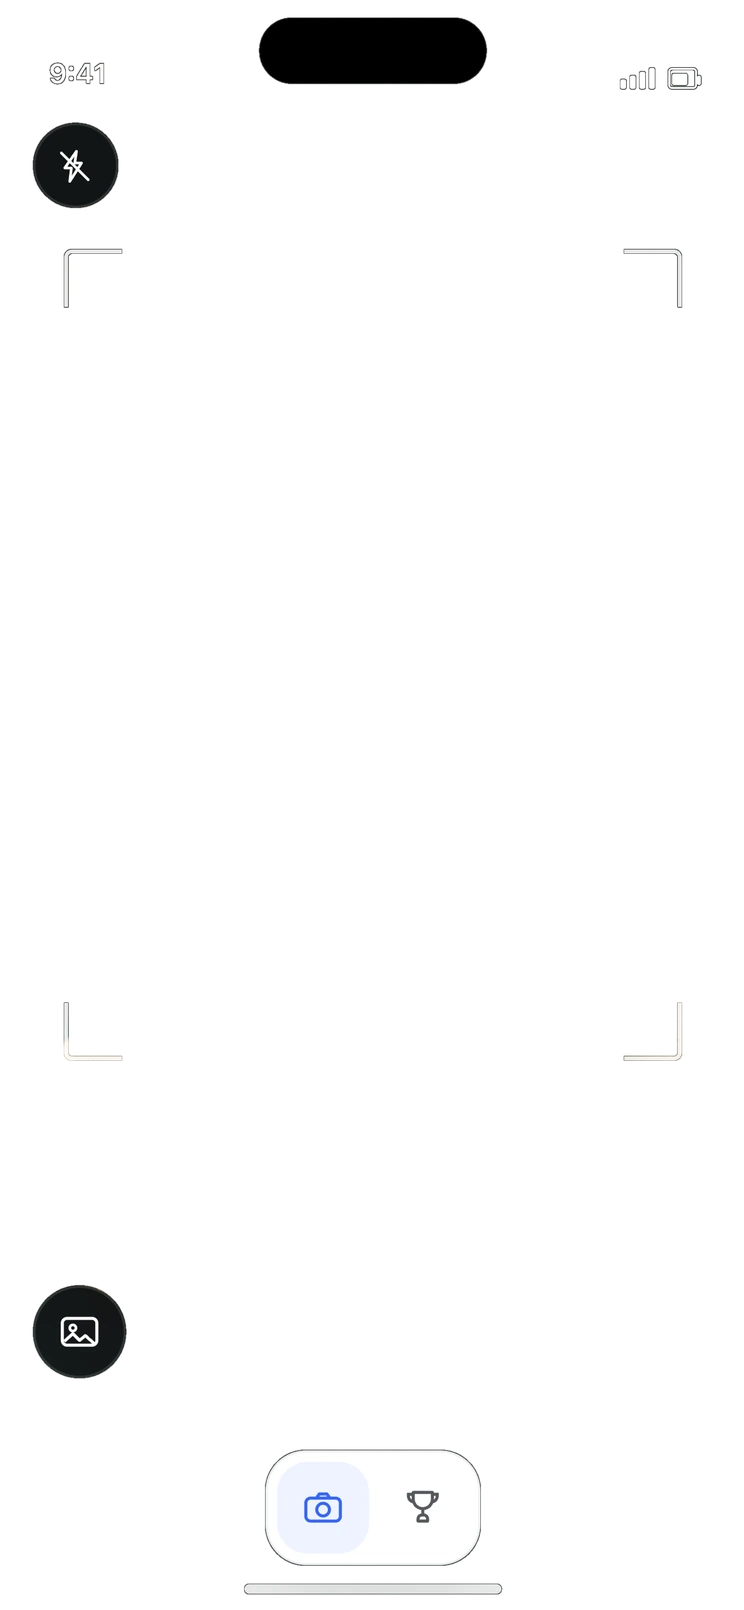
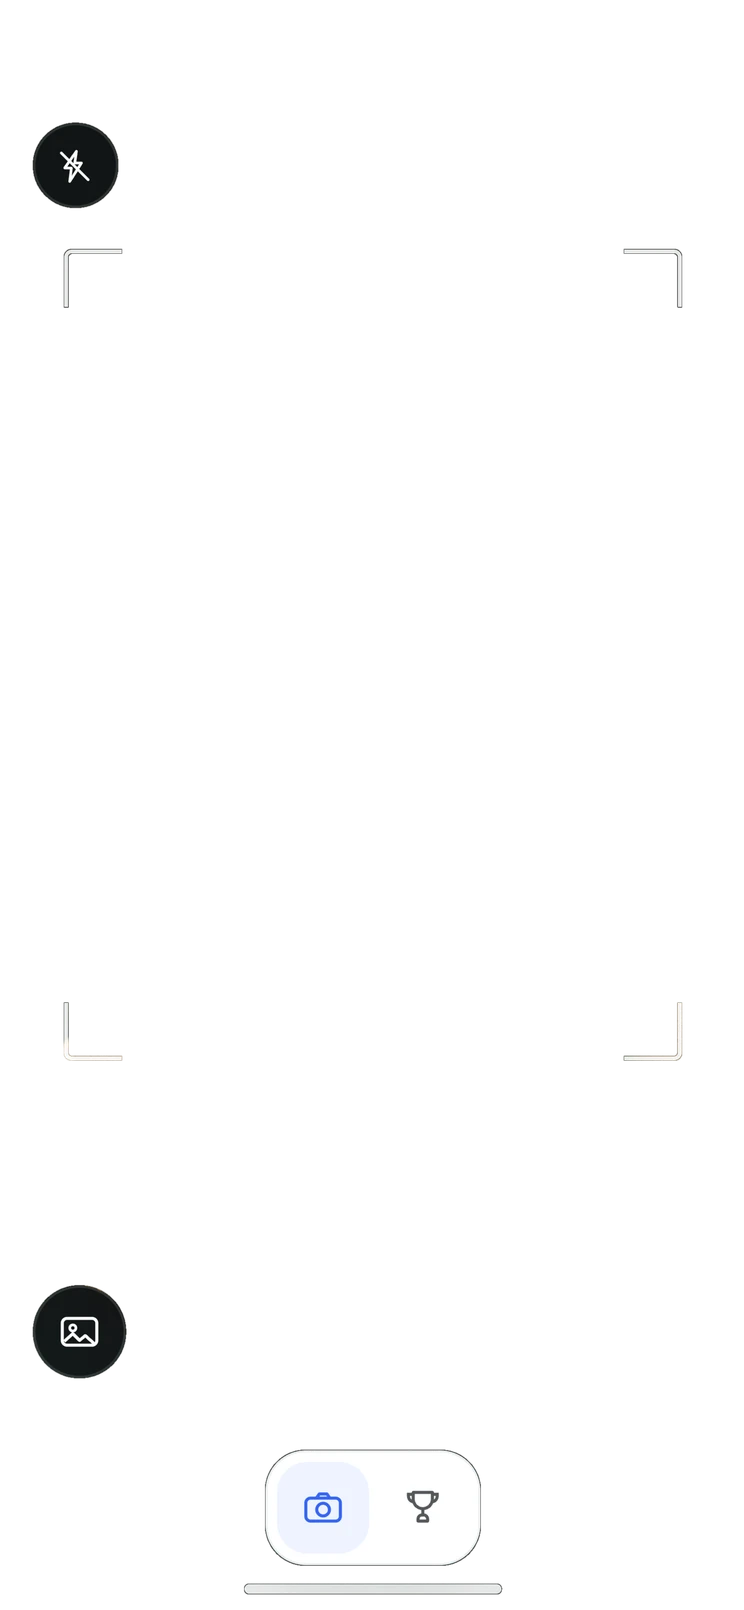
fix(marketing): strip the hero's island and grow the explorer phone (#905)
Two things Aziz caught on the live page.

The hero still carried the OS status bar and the Dynamic Island, burned into
its camera capture, while the five explorer screens had both stripped last
round. One phone with an island and five without. He asked for uniformity
either way and chose removing.

scripts/hero-chrome.mjs in snaplist-appstore owns that cut and is new, because
the knockout that produced this layer was a one-off that left no script on disk.
Rather than guess at a pipeline nobody wrote down, it clears everything above
row 176 of the captured PNG and asserts the layer's own alpha profile first: the
status band has to be non-empty and rows 150 to 202 have to be empty, so a
canvas change that moved the flash button up into that gap fails loudly instead
of clipping the button off the hero. That assertion already earned its keep by
catching 276 antialiased pixels a ten-row sampling had stepped over. Verified by
compositing the result over a hero subject rather than by reading the alpha.

The Trophy Wall screen read cramped, which it was: a two-column grid of tiles
inside a 314px screen, the worst of the five. The explorer phone grows from 340
to 392 across its steps. The hero at 400 is the ceiling because he had already
chosen for it to lead, so the desktop gain is deliberately small. Every step was
measured against the live page at each width that actually responds to it,
checking for overflow and for the card column being squeezed, which starts at
[…]

Changed region(s): [[0.3401, 0.0, 0.6492, 0.0621], [0.8347, 0.0311, 0.9274, 0.0621], [0.0618, 0.0311, 0.1546, 0.0621]]

diff --git a/src/app/(marketing)/marketing.css b/src/app/(marketing)/marketing.css
@@ -986,15 +986,28 @@ html:has(.mkt) {
   }
 }
 
-/* The frame is drawn at 288x592 and scaled uniformly, so `scale()` needs a
+/* The frame is drawn at 288x598 and scaled uniformly, so `scale()` needs a
    unitless factor. CSS cannot divide a length by a length, so the width and its
    factor are declared together in fixed steps rather than derived from a clamp().
    The steps are chosen to land on the design's computed width at each proof
    width (1440, 1024, 768, 430, 390, 375) and to stay inside the section's
-   content box at every one, so nothing can overflow horizontally. */
+   content box at every one, so nothing can overflow horizontally.
+
+   Grown once. Aziz read the Trophy Wall screen as cramped, and it was the
+   smallest case: a two-column grid of tiles inside a 314px screen. The ceiling
+   is the hero phone at 400, which leads the page and stays the larger of the
+   two, so the widest step is 392 rather than a proportional bump. Measured at
+   each responding width against the live page: 1440 goes to 392, 1279 to 376,
+   1058 to 370, 759 to 376. None overflow, and none squeeze the card column,
+   which held 540 until 384 and so sets the practical cap below 1280 too.
+
+   Below about 410 the frame is a flex item narrower than its declared width and
+   shrinks to the column, so these values stop being the governing number. The
+   last two steps are left alone for that reason rather than raised into no
+   effect. */
 .mkt-explorer {
-  --phone-w: 384px;
-  --phone-scale: 1.33333;
+  --phone-w: 392px;
+  --phone-scale: 1.36111;
   --phone-h: calc(var(--phone-w) * 598 / 288);
   display: flex;
   flex-direction: row;
@@ -1005,22 +1018,22 @@ html:has(.mkt) {
 
 @media (max-width: 1279px) {
   .mkt-explorer {
-    --phone-w: 360px;
-    --phone-scale: 1.25;
+    --phone-w: 376px;
+    --phone-scale: 1.30556;
   }
 }
 
 @media (max-width: 1139px) {
   .mkt-explorer {
-    --phone-w: 340px;
-    --phone-scale: 1.18056;
+    --phone-w: 370px;
+    --phone-scale: 1.28472;
   }
 }
 
 @media (max-width: 759px) {
   .mkt-explorer {
-    --phone-w: 352px;
-    --phone-scale: 1.22222;
+    --phone-w: 376px;
+    --phone-scale: 1.30556;
   }
 }
 
@@ -1056,7 +1069,7 @@ html:has(.mkt) {
   max-width: 100%;
 }
 
-/* The frame is designed at 288x592 and scaled uniformly, so every internal
+/* The frame is designed at 288x598 and scaled uniformly, so every internal
    dimension stays in proportion at any breakpoint. */
 .mkt-explorer__frame {
   position: relative;

diff --git a/src/app/(marketing)/marketing.test.tsx b/src/app/(marketing)/marketing.test.tsx
@@ -688,8 +688,17 @@ describe("feature explorer semantics", () => {
     // The hero phone leads the page and is the only animated one, so it outranks
     // the explorer device rather than sitting under it. It shipped at 360
     // against the explorer's 384, which inverted that.
-    const heroWidth = css.match(/\.mkt-hero__minimal-phone\s*\{[^}]*--phone-body:\s*min\((\d+)px/);
-    expect(Number(heroWidth?.[1])).toBeGreaterThan(384);
+    //
+    // Both sides are read out of the stylesheet. Pinning the explorer's width as
+    // a literal here is what let it go stale when the explorer grew, and a stale
+    // number on this side of the comparison silently stops guarding the ranking.
+    const heroWidth = Number(
+      css.match(/\.mkt-hero__minimal-phone\s*\{[^}]*--phone-body:\s*min\((\d+)px/)?.[1],
+    );
+    const widestExplorer = Number(css.match(/\.mkt-explorer\s*\{[^}]*--phone-w:\s*(\d+)px/)?.[1]);
+    expect(heroWidth).toBeGreaterThan(0);
+    expect(widestExplorer).toBeGreaterThan(0);
+    expect(heroWidth).toBeGreaterThan(widestExplorer);
   });
 
   it("keeps the shutter's shadow in CSS rather than burnt into the layer", async () => {

diff --git a/docs/design/marketing-screens-provenance.md b/docs/design/marketing-screens-provenance.md
@@ -81,16 +81,33 @@ were defects and they showed up together as "the phone got shrunk and the screen
 
 The chrome is derived, not drawn. The Scan canvas is captured twice, once normally and once with the
 viewfinder photograph replaced by `#FF00FF`, and the alpha channel is a knockout of wherever the
-second capture is magenta. So the flash button, framing corners, shutter, library button, tab bar
-and status bar in the hero are the same pixels as the App Store panel. Nothing about the camera is a
-drawing that could drift from the build, which is what keeps the hero inside Apple guideline 2.3.3.
+second capture is magenta. So the flash button, framing corners, shutter, library button and tab bar
+in the hero are the same pixels as the App Store panel. Nothing about the camera is a drawing that
+could drift from the build, which is what keeps the hero inside Apple guideline 2.3.3.
 
-That knockout also settled a question worth writing down: the viewfinder photograph is full bleed at
-94% of the screen with no status-bar band above it. The white status text sits directly on the
-subject, and the approved v4 Scan package says in as many words "No shelf, panel, scrim, grounding
-gradient, or merged pill". So there is nothing to darken behind that text, and the only lever left
-is which photograph goes in. Every loop subject is chosen with a dark top strip for that reason.
-Two otherwise good candidates, a Polaroid on cyan and Ray-Bans on pale grey, were rejected on it.
+The hero carried the OS status bar and the Dynamic Island for a while after the five explorer screens
+had both stripped, so the page showed one phone with an island and five without. Aziz: "we need to
+keep it uniform so just remove the notch from both or keep the notch on both." He chose removing.
+`scripts/hero-chrome.mjs` owns that cut. It clears everything above row 176 of the 1240-wide capture
+and asserts the layer's own alpha profile first, because the status band ends at 149 and the flash
+button begins at 203, and a canvas change that moved the button up into that gap would otherwise
+clip it off the hero silently.
+
+Two things about that script are worth knowing before touching it. It operates on the captured PNG
+rather than re-deriving the knockout, because the knockout was run as a one-off and left no script
+on disk, only `tmp/scan-chrome-noshutter-1240.png`. Re-deriving it would mean guessing at a pipeline
+nobody wrote down. And the gap assertion has already paid for itself: the profile was first read
+every tenth row, which put the flash button at 210, and the assertion caught the 276 antialiased
+pixels between 203 and 209 that the sampling had stepped over.
+
+The knockout also settled a question worth writing down: the viewfinder photograph is full bleed at
+94% of the screen with no status-bar band above it, and the approved v4 Scan package says in as many
+words "No shelf, panel, scrim, grounding gradient, or merged pill". So there is nothing to darken
+behind white chrome, and the only lever is which photograph goes in. Removing the status bar took the
+worst of that away, since the white 9:41 and the status icons were the smallest, faintest marks on
+the brightest part of the frame. The flash glyph and the framing corners are still white and still
+sit on the top strip, so subjects are still chosen with a dark top. Two otherwise good candidates,
+a Polaroid on cyan and Ray-Bans on pale grey, were rejected on it.
 
 The subjects are all recognisably branded, because a generic object does not read as something
 somebody is reselling. They also have to survive a 0.462 crop, which rules out wide landscape
@@ -253,9 +270,19 @@ Neither frame draws a notch or an island. That matches Cal AI and is also forced
 the app's own chrome, so anything drawn over them lands on app content. It sat on the Trophy Wall
 title once.
 
-Their phone renders at 300px wide, 350 at their large breakpoint. Ours renders 340 to 384. Close
+Their phone renders at 300px wide, 350 at their large breakpoint. Ours renders 370 to 392. Close
 enough to Aziz's "approximately the same size", and the explorer device is deliberately the smaller
 of our two so the hero stays the lead visual.
+
+The explorer device grew once, from 340 to 392 across its steps. Aziz read the Trophy Wall screen as
+cramped, and it was the worst case of the five: a two-column grid of tiles inside a 314px screen. The
+hero at 400 is the ceiling, because he had already chosen for it to lead, so the widest step is 392
+rather than a proportional bump and the desktop gain is small. The steps were measured against the
+live page at each width that responds to them, checking that nothing overflows and that the card
+column beside the phone is not squeezed; it held 540px until the phone reached 384. Below about 410
+the frame is a flex item narrower than its declared width and shrinks to the column instead, so the
+last two steps were left alone rather than raised into no effect. The card stack takes its height
+from the row and its width from `--phone-w` once stacked, so it grew with the phone on its own.
 
 ## Known honesty gap
 
